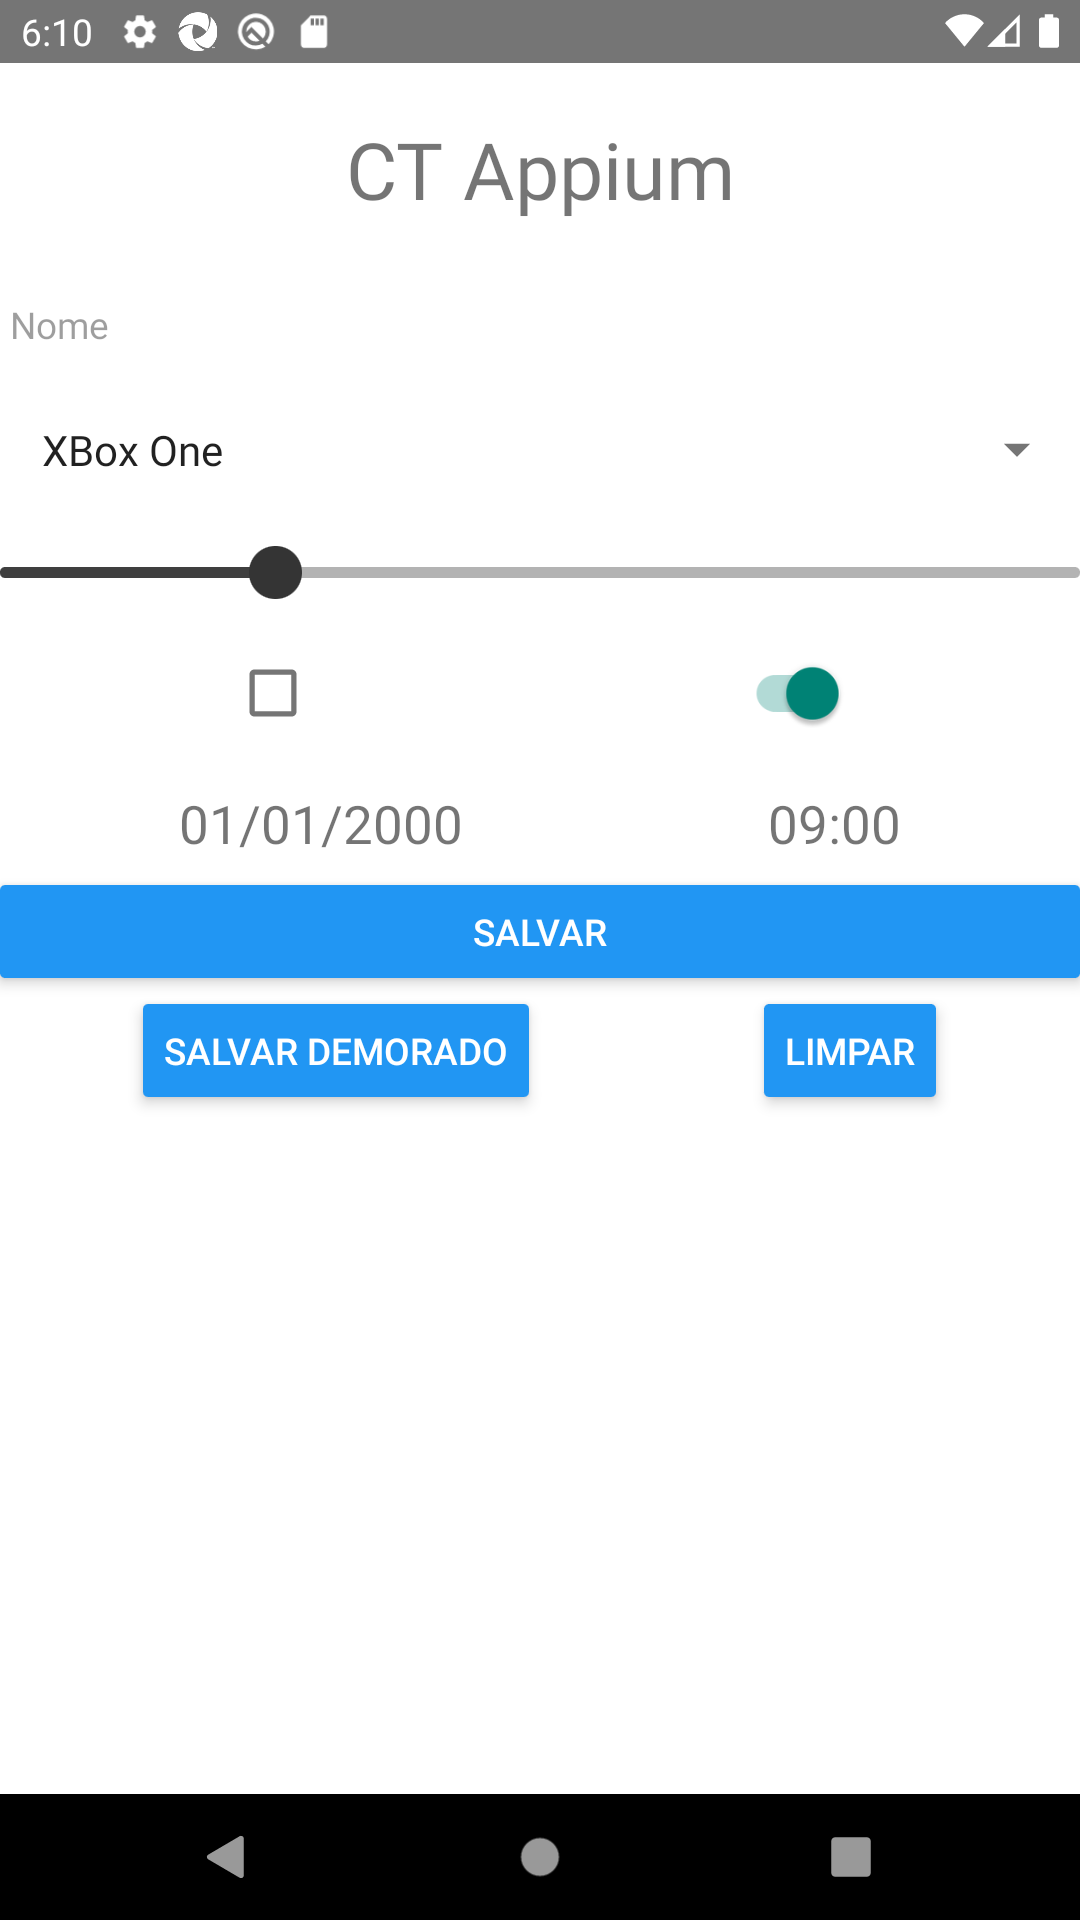
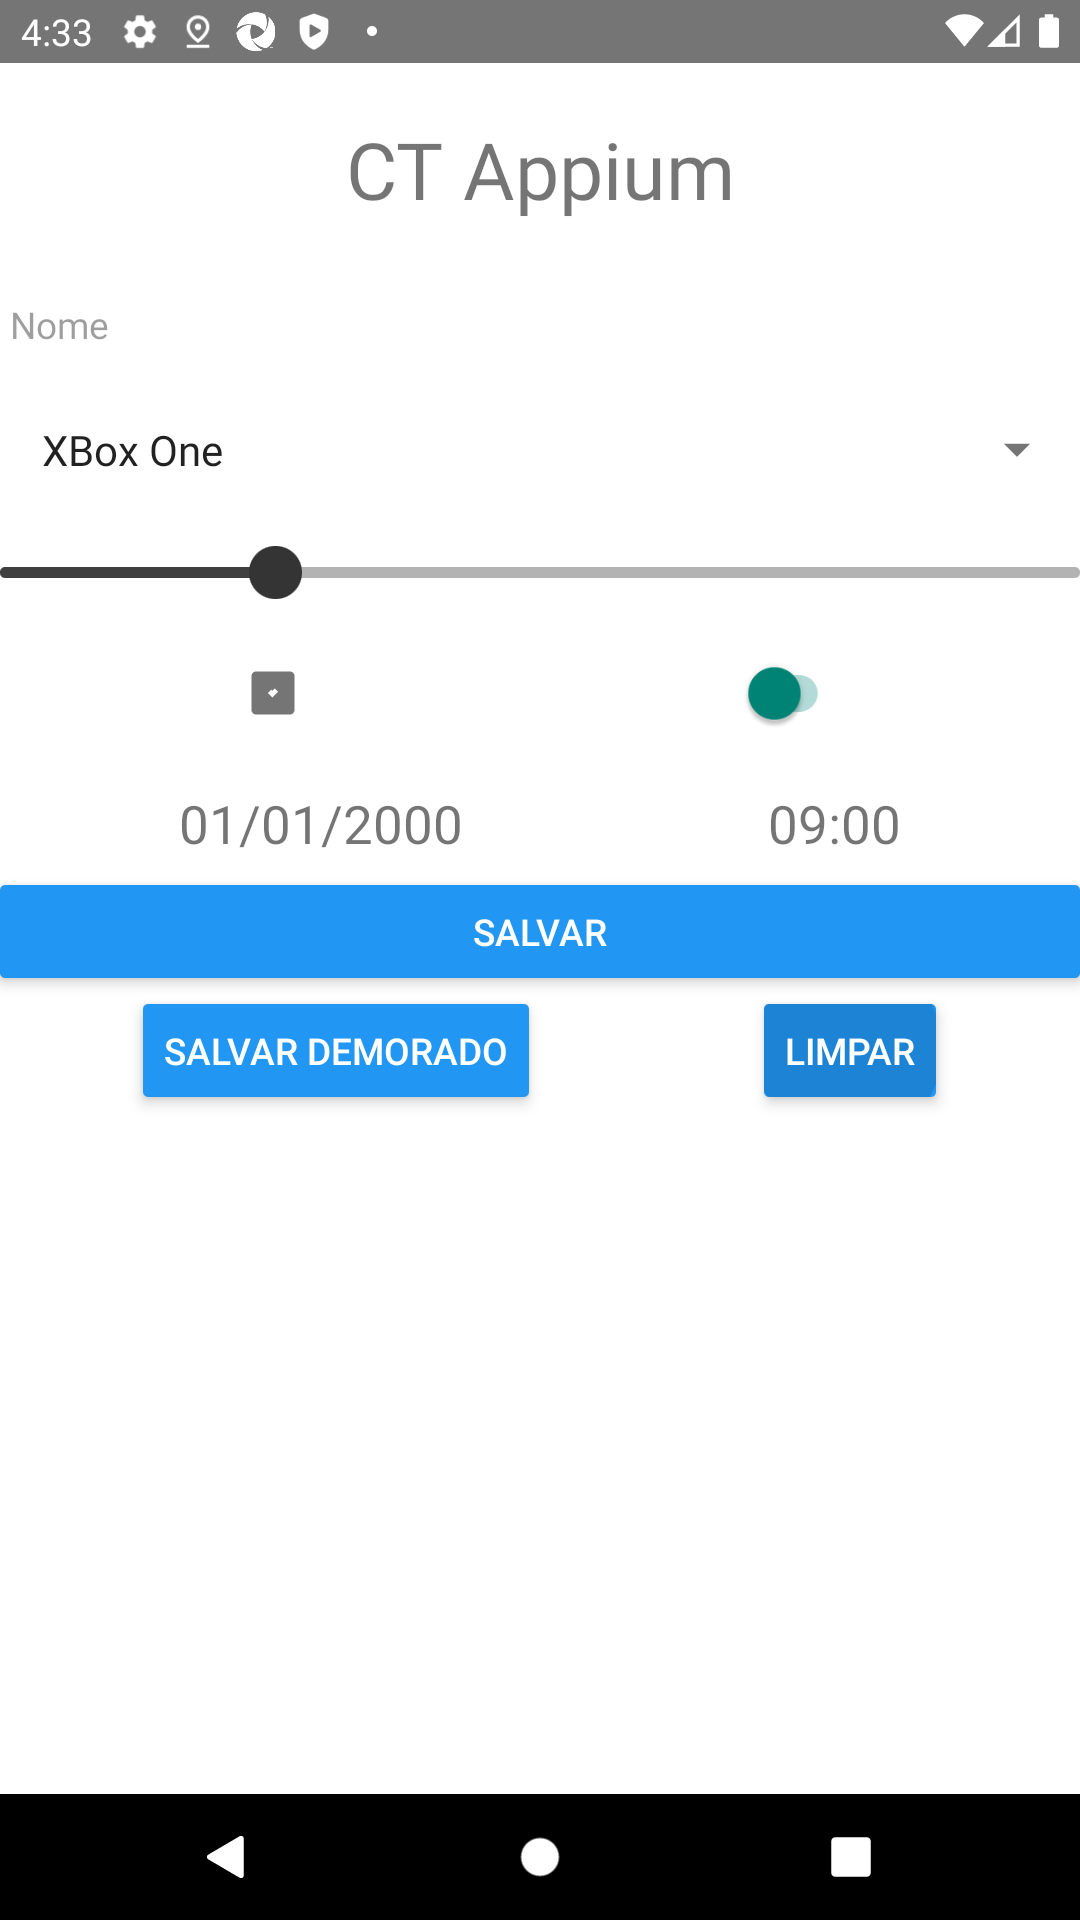
Projeto Appium com Java

diff --git a/src/main/java/br/ce/cristian/appium/testes/AcorddionTeste.java b/src/main/java/br/ce/cristian/appium/testes/AcorddionTeste.java
@@ -1,0 +1,53 @@
+package br.ce.cristian.appium.testes;
+
+import org.junit.Before;
+import org.junit.Test;
+
+import br.ce.cristian.appium.core.BasePage;
+import br.ce.cristian.appium.core.BaseTest;
+import br.ce.cristian.appium.core.DriverFactory;
+import br.ce.cristian.appium.page.AcorddionPage;
+import br.ce.cristian.appium.page.MenuPage;
+import io.appium.java_client.MobileElement;
+import io.appium.java_client.android.AndroidDriver;
+import junit.framework.Assert;
+
+public class AcorddionTeste extends BaseTest {
+	
+	//Instancinado paginas
+	private MenuPage menu = new MenuPage();
+	private AcorddionPage page = new AcorddionPage();
+	
+	//Variavel Global
+	private AndroidDriver<MobileElement> driver;
+	
+	@Before
+	public void inicializarAppium(){
+		menu.acessaAcorddion();
+		driver = DriverFactory.getdriver();
+	}
+	
+	@SuppressWarnings("deprecation")
+	@Test
+	public void deveInteragirComAcorddion() {
+		
+		// Clicar na opção 1
+		page.clicarNaOpcao1();
+		
+		
+		//Verificar texto da opção 1
+		Assert.assertEquals("Esta é a descrição da opção 1", page.retornaTextoOpcao1());
+		
+		
+		//Clicar na opção 2
+		page.clicarNaOpcao2();
+
+		
+		
+		// Verificar a opção 2
+		Assert.assertEquals("Esta é a descrição da opção 2", page.retornaTextoOpcao2());
+
+		
+	}
+
+}

diff --git a/src/main/java/br/ce/cristian/appium/page/AcorddionPage.java b/src/main/java/br/ce/cristian/appium/page/AcorddionPage.java
@@ -1,0 +1,28 @@
+package br.ce.cristian.appium.page;
+
+import org.openqa.selenium.By;
+
+import br.ce.cristian.appium.core.BasePage;
+
+public class AcorddionPage extends BasePage {
+	
+	public void clicarNaOpcao1() {
+		clicarNoElemento(By.xpath("//android.widget.TextView[@text='Opção 1']"));
+	}
+	
+	public String retornaTextoOpcao1(){
+			return obtertexto(By.xpath("//android.widget.TextView[@text='Esta é a descrição da opção 1']"));
+	
+	}
+
+	public void clicarNaOpcao2() {
+		clicarNoElemento(By.xpath("//android.widget.TextView[@text='Opção 2']"));
+		
+	}
+
+	public String retornaTextoOpcao2() {
+		
+		return obtertexto(By.xpath("//android.widget.TextView[@text='Esta é a descrição da opção 2']"));
+	}
+
+}

diff --git a/src/main/java/br/ce/cristian/appium/page/FormularioPage.java b/src/main/java/br/ce/cristian/appium/page/FormularioPage.java
@@ -95,5 +95,25 @@ public class FormularioPage extends BasePage{
 		
 	}
 	
+	public void clicarPorData() {
+		clicarNoElemento(By.xpath("//android.widget.TextView[@text='01/01/2000']"));
+		
+	}
+	
+	public void clicarNaData() {
+		clicarNoElemento(By.xpath("//android.view.View[@text='19']"));
+		
+	}
+	
+	public void confirmar() {
+		clicarNoElemento(By.xpath("//android.widget.Button[@text='OK']"));
+		
+	}
+	
+	public String verificaDataEscohida() {
+		return obtertexto(By.xpath("//android.widget.TextView[@text='19/01/2000']"));
+	}
+	
+	
 	
 }

diff --git a/src/main/java/br/ce/cristian/appium/testes/FormularioTeste.java b/src/main/java/br/ce/cristian/appium/testes/FormularioTeste.java
@@ -1,6 +1,7 @@
 package br.ce.cristian.appium.testes;
 import org.junit.Before;
 import org.junit.Test;
+
 import br.ce.cristian.appium.core.BaseTest;
 import br.ce.cristian.appium.core.DriverFactory;
 import br.ce.cristian.appium.page.FormularioPage;
@@ -10,6 +11,7 @@ import io.appium.java_client.android.AndroidDriver;
 import junit.framework.Assert;
 
 public class FormularioTeste extends BaseTest{
+	
 	
 	//Variavel Global
 	private AndroidDriver<MobileElement> driver;
@@ -25,12 +27,11 @@ public class FormularioTeste extends BaseTest{
 		driver = DriverFactory.getdriver();
 	}
 	
-	
-	
 	//Formulário Teste, roteiro de teste e suas assertivas
 	@SuppressWarnings("deprecation")
 	@Test
 	public void preencheFormulario()  {	
+		
 		
 		//Escrever nome
         page.escreverNome("Cristian Jonas");
@@ -68,12 +69,12 @@ public class FormularioTeste extends BaseTest{
 		
 		//Clica no botão limpar
 		page.clicarBotaoLimpar();
-	
+			
 	}
 	
 	@Test
 	public void preencheFormularioDemorado(){	
-		
+				
 		//Escrever nome
         page.escreverNome("Cristian Jonas");
 		
@@ -87,7 +88,17 @@ public class FormularioTeste extends BaseTest{
 		//Verificar retorno após clicar no botão salvar
 		Assert.assertEquals("Nome: Cristian Jonas", page.checarNomeEscrito());
 		
+		
 	}
+	
+	@Test
+	public void deveInteragirComData() {
+		page.clicarPorData();
+		page.clicarNaData();
+		page.confirmar();
+		Assert.assertEquals("19/01/2000", page.verificaDataEscohida());
+	}
+
 	
 	
 

diff --git a/src/main/java/br/ce/cristian/appium/page/MenuPage.java b/src/main/java/br/ce/cristian/appium/page/MenuPage.java
@@ -29,6 +29,11 @@ public class MenuPage extends BasePage{
 		
 	}
 
+	public void acessaAcorddion() {
+		clicarNoElemento(By.xpath("//android.widget.TextView[@text='Accordion']"));
+		
+	}
+
 
 
 	

diff --git a/src/main/java/br/ce/cristian/appium/core/BaseTest.java b/src/main/java/br/ce/cristian/appium/core/BaseTest.java
@@ -14,7 +14,6 @@ import org.openqa.selenium.TakesScreenshot;
 //Comportamento para se reproduzir em todos os testes
 public class BaseTest {
 	
-	
 	@Rule
 	public TestName testeName = new TestName();
 
@@ -57,5 +56,5 @@ public class BaseTest {
 			e.printStackTrace();
 		}
 	}
-
+	
 }

diff --git a/src/main/java/br/ce/cristian/appium/page/SplashPage.java b/src/main/java/br/ce/cristian/appium/page/SplashPage.java
@@ -14,8 +14,7 @@ public class SplashPage extends BasePage {
 	
 	
 	public boolean isTelaSplashVisivel() {
-		existeElementoPorTexto(By.xpath("//android.widget.TextView[@text='Splash!']"));
-		return true;
+		return existeElementoPorTexto(By.xpath("//android.widget.TextView[@text='Splash!']"));
 	}
 	
 	public String telaHome() {

diff --git a/src/main/java/br/ce/cristian/appium/testes/SplashTeste.java b/src/main/java/br/ce/cristian/appium/testes/SplashTeste.java
@@ -18,7 +18,7 @@ import junit.framework.Assert;
 public class SplashTeste extends BaseTest {
 	
 	//Variavel Global
-		private AndroidDriver<MobileElement> driver;
+	private AndroidDriver<MobileElement> driver;
 		
 	//Instanciando as páginas
 	private MenuPage menu = new MenuPage();